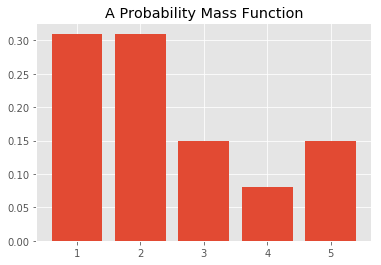
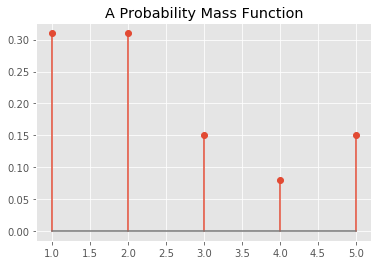
used plt.stem instead of plt.bar to match lab solution

diff --git a/README.md b/README.md
@@ -108,7 +108,7 @@ import matplotlib.pyplot as plt
 %matplotlib inline
 plt.style.use('ggplot')
 
-plt.bar(counter.keys(), pmf);
+plt.stem(counter.keys(), pmf);
 plt.title ("A Probability Mass Function");
 ```
 
